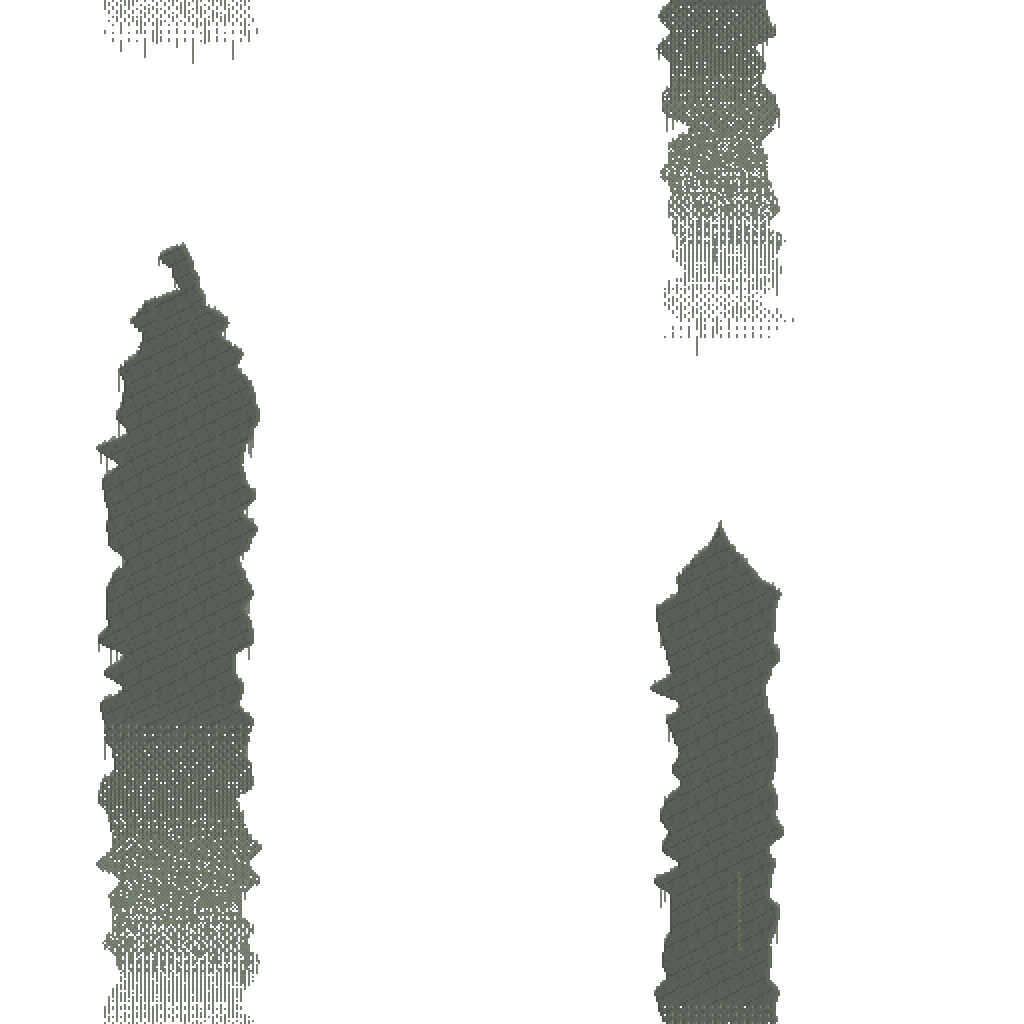
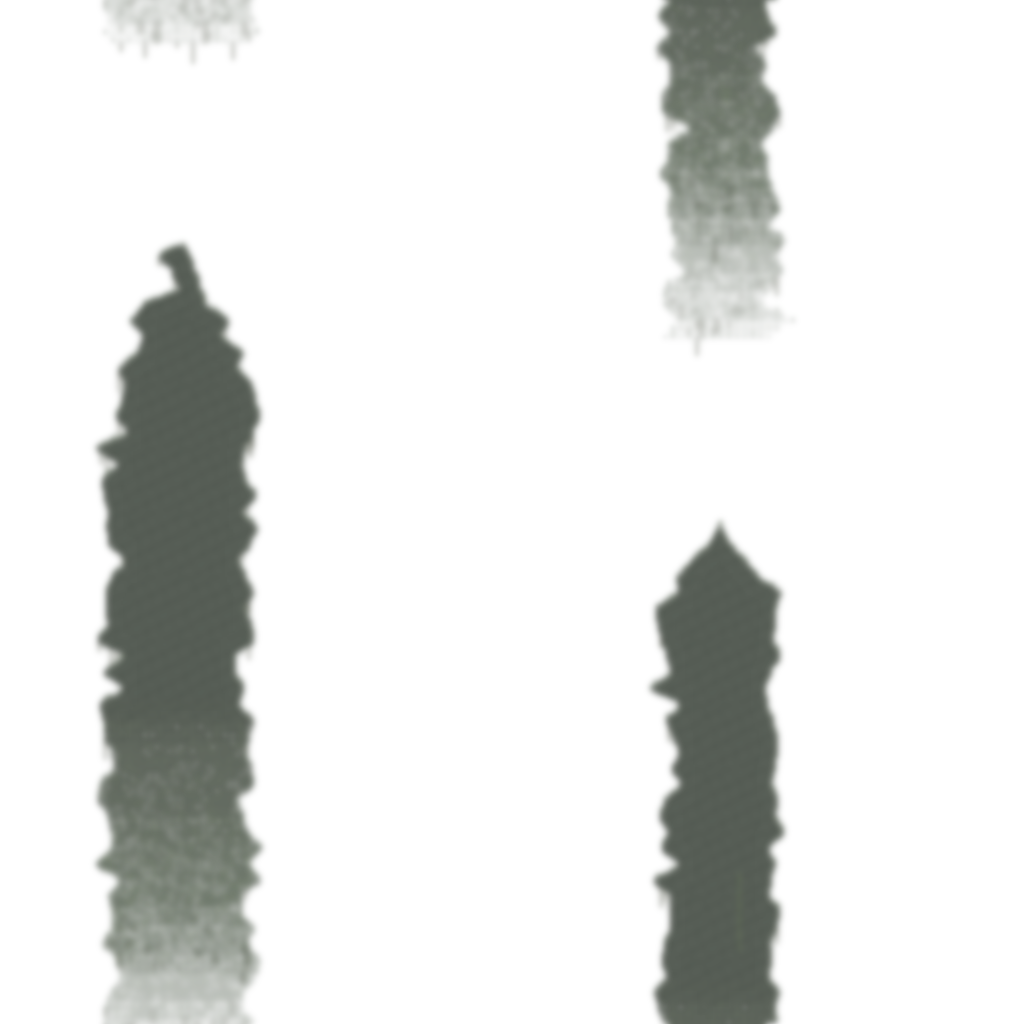
Pilares do fundo do Purgatório sem pontilhado: somem na névoa em degradê suave, com a cor lisa (sem pontilhado nem hachura) e a borda macia (assets/purgatorio/fundo/pilares.png, tools/arte_pilares_sem_pontilhado.py, tests/test_pilares_sem_pontilhado.py)

diff --git a/tools/arte_pilares_sem_pontilhado.py b/tools/arte_pilares_sem_pontilhado.py
@@ -1,0 +1,74 @@
+"""Tira o pontilhado dos pilares do fundo do Purgatório (assets/purgatorio/fundo/pilares.png).
+
+Os pilares sumiam na névoa com pontilhado (pixels ligados e desligados alternando, só opacidade 0 ou 255) e tinham
+pontilhado e hachura na cor. Onde há pontilhado, a opacidade vira a média local (degradê suave); a cor fica lisa
+(média dos vizinhos) e a borda fica macia, como vista através da névoa. A imagem continua emendando nos dois sentidos. Rodar de novo não muda nada
+(não sobra pontilhado).
+Gerador de arte (não mexe no jogo.json):  python3 tools/arte_pilares_sem_pontilhado.py
+"""
+import os
+import numpy as np
+from PIL import Image
+
+RAIZ = os.path.dirname(os.path.dirname(os.path.abspath(__file__)))
+ARQ = os.path.join(RAIZ, 'assets/purgatorio/fundo/pilares.png')
+JANELA = 9        # lado da janela que mede o pontilhado (px)
+SIGMA = 3.0       # suavidade da média que substitui o pontilhado (px)
+SIGMA_COR = 3.0   # a cor de dentro também tinha pontilhado/hachura: vira um tom liso (px)
+SIGMA_BORDA = 2.2 # a borda fica macia, como vista através da névoa (px)
+NEVOA = np.array([128, 138, 128])  # cor da névoa da cena, atrás dos pilares
+TROCAS = 4        # trocas de ligado/desligado na janela a partir das quais é pontilhado
+
+
+def caixa(x, r):
+    """média numa janela (2r+1)^2, emendando nas bordas."""
+    s = np.zeros_like(x)
+    for dy in range(-r, r + 1):
+        for dx in range(-r, r + 1):
+            s += np.roll(np.roll(x, dy, 0), dx, 1)
+    return s / (2 * r + 1) ** 2
+
+
+def gauss(x, sigma):
+    r = int(sigma * 3)
+    k = np.exp(-np.arange(-r, r + 1) ** 2 / (2 * sigma ** 2))
+    k /= k.sum()
+    out = sum(w * np.roll(x, i - r, 0) for i, w in enumerate(k))
+    return sum(w * np.roll(out, i - r, 1) for i, w in enumerate(k))
+
+
+def trocas(al):
+    """quantas vezes a opacidade liga/desliga perto de cada pixel."""
+    t = (al != np.roll(al, 1, 1)).astype(float) + (al != np.roll(al, 1, 0))
+    return caixa(t, JANELA // 2) * JANELA ** 2
+
+
+def pontilhado(a):
+    al = a[..., 3] >= 128
+    return trocas(al) >= TROCAS
+
+
+def ruido(a):
+    """quanto a imagem (sobre a cor da névoa) varia de um pixel para o vizinho: pontilhado e hachura dão muito."""
+    al = a[..., 3:4] / 255
+    lum = ((a[..., :3] * al + NEVOA * (1 - al)) @ [0.3, 0.59, 0.11])
+    return float(np.abs(lum - gauss(lum, 1.5)).mean())
+
+
+def main():
+    a = np.array(Image.open(ARQ).convert('RGBA')).astype(float)
+    al = a[..., 3] / 255
+    mascara = gauss(pontilhado(a).astype(float), SIGMA)          # onde trocar, com transição suave
+    media = gauss(al, SIGMA)
+    cor = np.stack([gauss(a[..., c] * al, SIGMA) for c in range(3)], -1) / np.maximum(media, 1e-6)[..., None]
+    novo_al = gauss(al * (1 - mascara) + media * mascara, SIGMA_BORDA)
+    m2 = gauss(al, SIGMA_COR)
+    novo_rgb = np.stack([gauss(a[..., c] * al, SIGMA_COR) for c in range(3)], -1) / np.maximum(m2, 1e-6)[..., None]
+    novo_rgb = np.where(m2[..., None] > 1e-3, novo_rgb, cor)
+    out = np.dstack([novo_rgb, novo_al * 255]).clip(0, 255).astype(np.uint8)
+    Image.fromarray(out, 'RGBA').save(ARQ)
+    print('pixels trocados:', int((mascara > 0.01).sum()))
+
+
+if __name__ == '__main__':
+    main()

diff --git a/tests/test_pilares_sem_pontilhado.py b/tests/test_pilares_sem_pontilhado.py
@@ -1,0 +1,22 @@
+"""Os pilares do fundo do Purgatório somem na névoa em degradê, sem pontilhado nem hachura
+(tools/arte_pilares_sem_pontilhado.py)."""
+import os, sys, unittest
+import numpy as np
+from PIL import Image
+
+RAIZ = os.path.dirname(os.path.dirname(os.path.abspath(__file__)))
+sys.path.insert(0, os.path.join(RAIZ, 'tools'))
+import arte_pilares_sem_pontilhado as p
+
+RUIDO_ORIGINAL = 0.90   # p.ruido da imagem pontilhada
+
+
+class PilaresSemPontilhado(unittest.TestCase):
+    def test(self):
+        a = np.array(Image.open(p.ARQ).convert('RGBA')).astype(float)
+        self.assertGreater(len(np.unique(a[..., 3])), 50, 'opacidade em degradê')
+        self.assertLess(p.ruido(a), RUIDO_ORIGINAL / 5, 'sem pontilhado')
+
+
+if __name__ == '__main__':
+    unittest.main()
